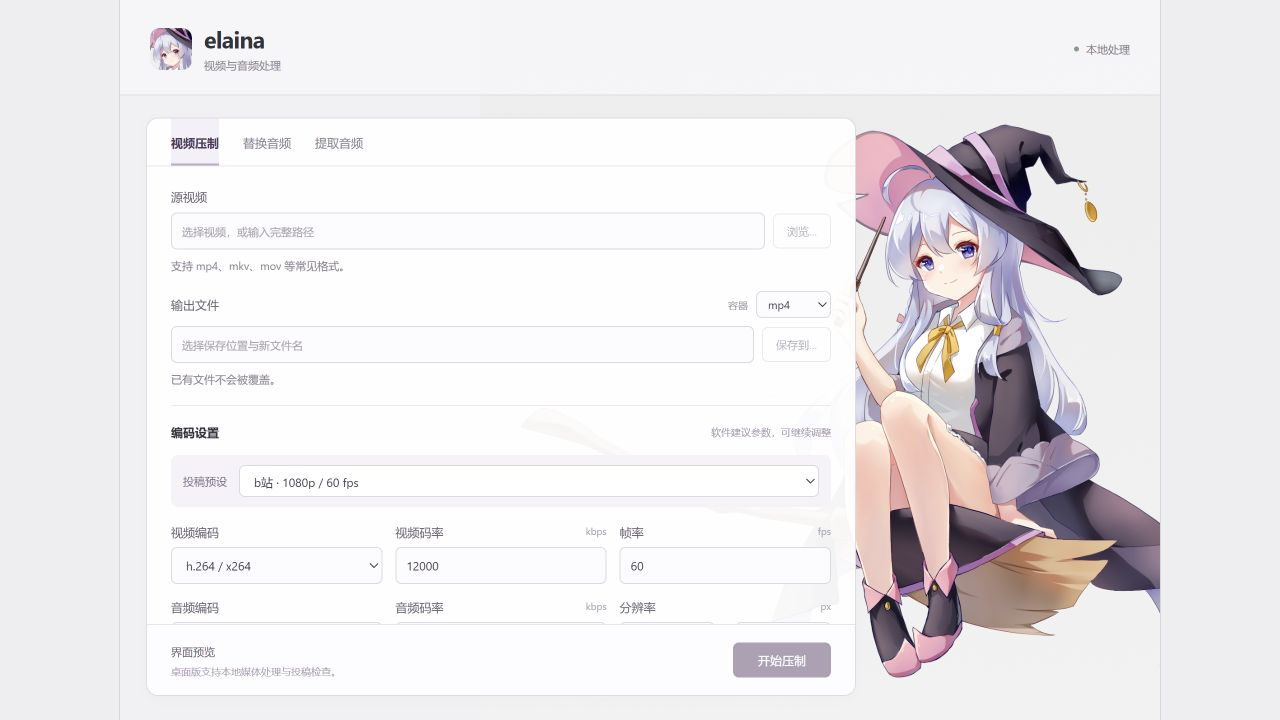
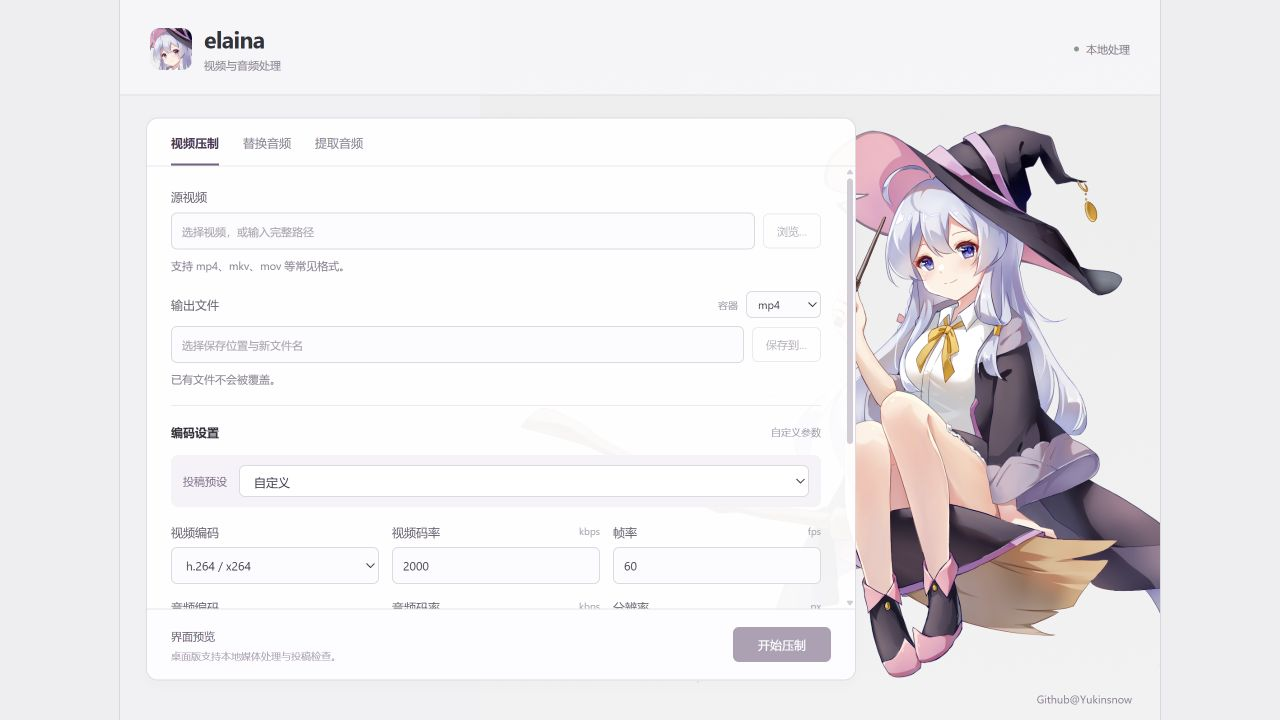
feat: add linked author credit to application footer

diff --git a/src/main.ts b/src/main.ts
@@ -37,6 +37,7 @@ root.innerHTML = `
     </form>
     <footer class="action-bar"><div class="status-block"><strong id="status-title">准备就绪</strong><p id="status" role="status" aria-live="polite">选择视频和输出位置。</p></div><button type="button" id="cancel" hidden>取消</button><button type="submit" form="job-form" class="primary" id="submit">开始压制</button></footer>
   </div>
+  <footer class="app-credit"><a id="github-credit" href="https://github.com/yukinsnow" target="_blank" rel="noopener noreferrer" aria-label="Github@Yukinsnow，打开 GitHub 主页">Github@Yukinsnow</a></footer>
 </div>`;
 
 function element<t extends HTMLElement>(id: string): t { return document.getElementById(id) as t; }
@@ -48,6 +49,12 @@ let native_ready = false;
 let source_info: inspection | undefined;
 let inspect_generation = 0;
 let unsubscribe: unlisten_fn | undefined;
+element('github-credit').addEventListener('click', async event => {
+  if (!native_ready) return;
+  event.preventDefault();
+  try { await invoke('open_github'); }
+  catch (error) { status('无法打开主页', String(error), 'error'); }
+});
 const actions = { encode: '开始压制', replace: '替换音频', extract: '提取音频' };
 
 function status(title: string, message: string, state = '') {

diff --git a/src/style.css b/src/style.css
@@ -83,6 +83,11 @@ input::-webkit-inner-spin-button, input::-webkit-outer-spin-button { appearance:
 .primary { background: #807088; border-color: #807088; color: #fff; min-width: 98px; font-size: 12px; }
 .primary:hover:not(:disabled) { background: #6d5c76; border-color: #6d5c76; }
 .primary:disabled { opacity: .65; }
+.workbench { margin-bottom: 10px; }
+.app-credit { flex-shrink: 0; display: flex; justify-content: flex-end; padding: 0 28px 12px; line-height: 1.6; }
+.app-credit a { color: #8b7d96; font-size: 11px; text-decoration: none; }
+.app-credit a:hover { color: #60506e; text-decoration: underline; text-underline-offset: 3px; }
+.app-credit a:focus-visible { outline: 2px solid #827193; outline-offset: 3px; border-radius: 2px; }
 .art-caption { position: absolute; right: 28px; top: 140px; text-align: right; color: #a99db4; }
 .art-caption span { font: italic 31px Georgia, serif; letter-spacing: -1px; }
 .art-caption p { margin: 7px 0 0; color: #b8b0bd; font-size: 9px; }

diff --git a/src-tauri/src/main.rs b/src-tauri/src/main.rs
@@ -8,6 +8,12 @@ mod inspect;
 use serde::Serialize as serialize;
 use std::{io::{BufRead as buf_read, BufReader as buf_reader, Read as read}, process::{Child as child, Command as command, Stdio as stdio}, sync::Mutex as mutex, time::Duration as duration};
 use tauri::{Emitter as emitter, Manager as manager};
+use tauri_plugin_opener::OpenerExt as opener_ext;
+
+#[tauri::command]
+fn open_github(app: tauri::AppHandle) -> Result<(), String> {
+    app.opener().open_url("https://github.com/yukinsnow", None::<&str>).map_err(|e| e.to_string())
+}
 
 #[derive(Default)]
 struct task { child: Option<child>, cancelled: bool }
@@ -133,7 +139,8 @@ fn main() {
         }
     }
     tauri::Builder::default().manage(tasks::default())
-        .invoke_handler(tauri::generate_handler![choose_file, inspect_media, start_job, cancel_job])
+        .plugin(tauri_plugin_opener::init())
+        .invoke_handler(tauri::generate_handler![choose_file, inspect_media, start_job, cancel_job, open_github])
         .build(context).expect("failed to build elaina")
         .run(|app, event| {
             if let tauri::RunEvent::Exit = event {

diff --git a/readme.md b/readme.md
@@ -45,7 +45,7 @@
 
 ### windows 绿色版（推荐）
 
-下载 release 中的 `elaina-2.1.0-windows-x64-portable.zip`，完整解压到可写目录，双击 `elaina.exe` 即可运行。随包包含 ffmpeg 和 ffprobe，不需要配置 path、安装应用或管理员权限。需要系统已有 webview2；绿色包不安装系统组件。
+下载 release 中的 `elaina-2.1.1-windows-x64-portable.zip`，完整解压到可写目录，双击 `elaina.exe` 即可运行。随包包含 ffmpeg 和 ffprobe，不需要配置 path、安装应用或管理员权限。需要系统已有 webview2；绿色包不安装系统组件。
 
 应用缓存保存在同目录的 `data` 文件夹。移动时请保留 `elaina.exe`、`ffmpeg.exe`、`ffprobe.exe` 和 `portable` 标记文件；关闭应用后删除整个目录即可移除应用与缓存，已导出的媒体文件不受影响。系统运行组件自身可能保留操作系统管理的记录。
 
@@ -156,7 +156,7 @@ tests/                      前端参数测试
 
 沿用原仓库声明的 GPL 许可；原仓库未指定版本，此处不额外指定版本。
 
-- 原作者：[yukinsnow](https://github.com/yukinsnow)。
+- 原作者：[Github@Yukinsnow](https://github.com/yukinsnow)，应用底部署名可直接打开作者主页。
 - 原角色插图署名：童心圆，[bilibili](https://space.bilibili.com/358219200)。
 - elaina 角色来自《魔女之旅》，原仓库声明应用为开源非营利用途；角色与插图权利归各自权利人所有。
 - 保留原应用图标、背景插图及 photon 图标字体；[原版截图](screenshot.png) 留作参考。
